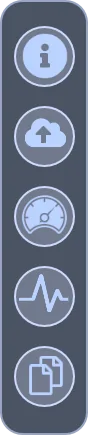
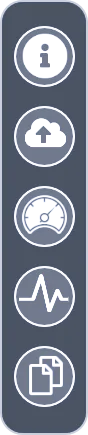
feat RD-85: Inspector-nav / implement selected-states by alpha mask and resolve css style opacity : 1 / transparency problem via '0.99' workaround. ( gsap / browser bug ?)

diff --git a/src/components/Cage.vue b/src/components/Cage.vue
@@ -58,6 +58,7 @@ export default {
     },
     mounted() {
         this.setViewMode('init')
+        this.setInspectorNavState('info')
         setTimeout(() => {
             this.show = true
             // this.setViewMode('mywork')
@@ -66,12 +67,18 @@ export default {
         }, 400)
     },
     methods: {
+        setInspectorNavState(key) {
+            const tg = '.box.inspector-nav .element'
+            $(tg).css('visibility', 'hidden')
+            $(`${tg}.all`).removeAttr('style')
+            $(`${tg}.${key}`).removeAttr('style')
+        },
         onClick(evt) {
             evt.box = evt.box || { id: null }
             console.log('CG:onClick evt = ', evt)
             console.log('CG:onClick this.$store.state.loggedIn = ', this.$store.state.loggedIn)
 
-            let options = {}
+            let options = { _00: { targets: null } }
             switch (true) {
                 case evt.key === 'close':
                     //
@@ -121,8 +128,14 @@ export default {
                 case evt.box.id === 'my-datasets':
                     switch (evt.key) {
                         case 'view-back':
-                            return this.setViewMode('mywork')
+                            options._00 = {
+                                targets: { 'my-datasets': { delay: 0, speed: 0.3 } }
+                            }
+                            return this.setViewMode('mywork', options)
                         case 'show-history':
+                            options._00 = {
+                                targets: { 'my-datasets': { delay: 0, speed: 0.3 } }
+                            }
                             options['my-datasets'] = {
                                 view: 'dataset-history'
                             }
@@ -136,11 +149,14 @@ export default {
                             return this.setViewMode('view-dataset', options)
                     }
                 case evt.box.id === 'inspector-nav':
+                    options._00 = {
+                        targets: { inspector: { delay: 0, speed: 0.3 } }
+                    }
                     options.inspector = {
                         view: evt.key
                     }
+                    this.setInspectorNavState(evt.key)
                     return this.setViewMode('mywork', options)
-
                 default:
                     this.setViewMode('home')
             }
@@ -183,13 +199,18 @@ export default {
             }
             this.$store.dispatch('setSubPath', path)
 
-            const tg = '.cage.boxes'
-            const goOuts = [...Object.keys(this.boxes)]
+            const tgBoxes = '.cage.boxes'
+            let goOuts = [...Object.keys(this.boxes)]
             goOuts[goOuts.indexOf('main-nav')] = null
+            if (options._00 && _.isPlainObject(options._00.targets)) {
+                goOuts = [...Object.keys(options._00.targets)]
+            }
+
             // const goOuts = 'recent,register,globe'.split(',')
+
             _.each(goOuts, key => {
                 if (key) {
-                    gsap.to($(`${tg} .${key}`), speed, {
+                    gsap.to($(`${tgBoxes} .${key}`), speed, {
                         opacity: 0,
                         ease: Expo.easeOut
                     })
@@ -219,7 +240,9 @@ export default {
                         'my-datasets': { delay: 0.1, speed: 0.8 },
                         inspector: { delay: 0.1, speed: 0.8, view: 'info' },
                         // inspector: { delay: 0.1, speed: 0.8, view: 'uploads' },
-                        'inspector-nav': { delay: 0.1, speed: 0.8 }
+                        //
+                        // inspector-nav opacity: 0.99 is part of the opacity:1 / transparency problem workaround
+                        'inspector-nav': { delay: 0.1, speed: 0.3, opacity: 0.99 }
                     }
                     // TODO extract this to funtion
                     if (options.inspector && options.inspector.view) {
@@ -259,35 +282,35 @@ export default {
                     break
             }
 
-            goIns['main-nav'] = {
-                view: privateView ? 'private' : 'public',
-                delay: 0,
-                speed: 0.2
+            if (options._00 && options._00.targets) {
+                goIns = options._00.targets
+            } else {
+                goIns['main-nav'] = {
+                    view: privateView ? 'private' : 'public',
+                    delay: 0,
+                    speed: 0.2
+                }
+                if (!this.$store.state.loggedIn) {
+                    goIns['login-bt-top'] = { delay: 0, speed: 0.1 }
+                }
             }
-
-            if (!this.$store.state.loggedIn) {
-                goIns['login-bt-top'] = { delay: 0, speed: 0.1 }
-            }
-
-            console.log('CG:setViewMode goIns = ', goIns)
 
             _.each(goIns, (args, boxId) => {
                 // handle the box
-                gsap.killTweensOf($(`${tg} .${boxId}`))
+                gsap.killTweensOf($(`${tgBoxes} .${boxId}`))
                 let prms = { ...args }
                 if (options[boxId]) {
                     prms = { ...args, ...options[boxId] }
                 }
                 prms.view = prms.view || boxId
-                // console.log('CG:setViewMode:E1 prms = ', prms)
-                // console.log('CG:setViewMode:E1 this.boxes[boxId] = ', this.boxes[boxId])
-
-                // console.log('CG:setViewMode:E1 boxId = ', boxId)
 
                 this.boxes[boxId].visible = true
                 const sp = _.isNumber(prms.speed) ? prms.speed : speed
-                gsap.to($(`${tg} .${boxId}`), sp, {
-                    opacity: _.isNumber(prms.opacity) ? prms.opacity : 1,
+
+                let opc = _.isNumber(prms.opacity) ? prms.opacity : 1
+                const $targetBox = $(`${tgBoxes} .${boxId}`)
+                gsap.to($targetBox, sp, {
+                    opacity: opc,
                     delay: _.isNumber(prms.delay) ? prms.delay : 0,
                     ease: Expo.easeOut
                 })
@@ -298,26 +321,20 @@ export default {
 
                 _.each(this.boxes[boxId].views, vu => {
                     if (view !== vu) {
-                        gsap.killTweensOf($(`${tg} .${boxId} .${vu.id}`))
-                        gsap.set($(`${tg} .${boxId} .${vu.id}`), {
+                        gsap.killTweensOf($(`${tgBoxes} .${boxId} .${vu.id}`))
+                        gsap.set($(`${tgBoxes} .${boxId} .${vu.id}`), {
                             clearProps: 'all'
                         })
                         vu.visible = false
                     }
                 })
 
-                console.log('CG:setViewMode:E1 boxId = ', boxId)
-                console.log('CG:setViewMode:E1 prms.view = ', prms.view)
-                console.log('CG:setViewMode:E1 this.boxes[boxId] = ', this.boxes[boxId])
-
-                // const view = this.boxes[boxId].views[prms.view]
-                console.log('CG:setViewMode:E1 view = ', view)
-                // console.log('CG:setViewMode:E1 SEL = ', `${tg} .${boxId} .${view.id}`)
-
                 if (!view.visible) {
                     view.visible = true
-                    gsap.to($(`${tg} .${boxId} .${view.id}`), 0.3, {
-                        opacity: 1,
+                    const $targetView = $(`${tgBoxes} .${boxId} .${view.id}`)
+                    let vOpc = _.isNumber(view.opacity) ? view.opacity : 1
+                    gsap.to($targetView, 0.3, {
+                        opacity: vOpc,
                         delay: 0.1,
                         ease: Expo.easeOut
                     })

diff --git a/src/css/r2.scss b/src/css/r2.scss
@@ -466,6 +466,75 @@
                     width: var(--width);
                     height: var(--height);
                 }
+
+                .element {
+                    left: 5px;
+                    .color-bg {
+                        width: 35px;
+                        height: 40px;
+                        background-color: #a9fdc7;
+                    }
+                    &.all {
+                        top: 5px;
+                        .color-bg {
+                            height: 210px;
+                            background-color: #b1d1ff;
+                        }
+                    }
+                    &.info {
+                        top: 10px;
+                    }
+                    &.upload-new {
+                        top: 50px;
+                    }
+                    &.uploads {
+                        top: 90px;
+                    }
+                    &.statistics {
+                        top: 130px;
+                    }
+                    &.files {
+                        top: 170px;
+                    }
+
+
+
+                    // 'upload-new': {
+                    //     pos: {
+                    //         left: '8px',
+                    //         top: '55px',
+                    //         width: '30px',
+                    //         height: '30px'
+                    //     }
+                    // },
+                    // uploads: {
+                    //     pos: {
+                    //         left: '8px',
+                    //         top: '96px',
+                    //         width: '30px',
+                    //         height: '30px'
+                    //     }
+                    // },
+                    // statistics: {
+                    //     pos: {
+                    //         left: '8px',
+                    //         top: '135px',
+                    //         width: '30px',
+                    //         height: '30px'
+                    //     }
+                    // },
+                    // files: {
+                    //     pos: {
+                    //         left: '8px',
+                    //         top: '175px',
+                    //         width: '30px',
+                    //         height: '30px'
+                    //     }
+                    // }
+
+
+
+                }
             }
 
             &.inspector {

diff --git a/src/js/R2UiBoxDefinitions.js b/src/js/R2UiBoxDefinitions.js
@@ -209,6 +209,28 @@ function R2UiBoxDefinitions() {
         'inspector-nav': {
             views: {
                 'inspector-nav': {
+                    // this 0.999 is part of the opacity:1 / transparency problem workaround
+                    opacity: 0.9,
+                    elements: {
+                        all: {
+                            classes: 'color-bg'
+                        },
+                        info: {
+                            classes: 'color-bg'
+                        },
+                        'upload-new': {
+                            classes: 'color-bg'
+                        },
+                        uploads: {
+                            classes: 'color-bg'
+                        },
+                        statistics: {
+                            classes: 'color-bg'
+                        },
+                        files: {
+                            classes: 'color-bg'
+                        }
+                    },
                     zones: {
                         info: {
                             pos: {

diff --git a/src/components/Box.vue b/src/components/Box.vue
@@ -6,7 +6,6 @@
             class="view"
             :class="[view.id, { 'no-events': !view.visible }]"
         >
-            <div class="inner bg-img" :class="[view.id]"></div>
             <div class="elements">
                 <div
                     v-for="(elm, key) in view.elements"
@@ -18,6 +17,9 @@
                     <div v-if="elm.html" v-html="elm.html" :class="[key, elm.classes]"></div>
                     <div v-else class="bg-img" :class="[key, elm.classes]"></div>
                 </div>
+            </div>
+            <div class="inner">
+                <div class="inner bg-img" :class="[view.id]"></div>
             </div>
             <div class="click-zones">
                 <div
@@ -42,8 +44,8 @@ export default {
         config: {}
     },
     mounted() {
-        console.log('BOX: this.config = ', this.config)
-        const index = 2
+        // console.log('BOX: this.config = ', this.config)
+        // const index = 2
         // console.log('BOX: this.config = ', _.get(`this.config.elements[${index}]`, html))
     },
     methods: {
